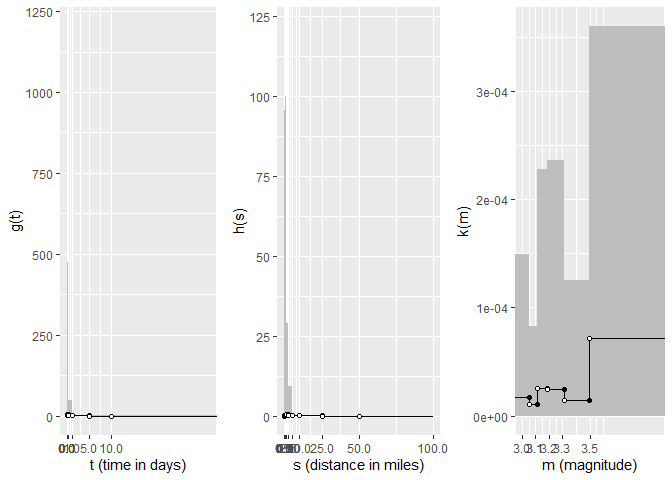
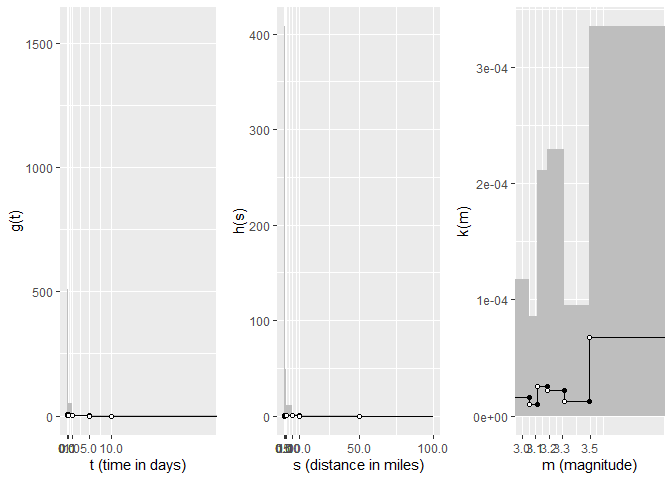
readme update

diff --git a/README.md b/README.md
@@ -67,7 +67,7 @@ out = nph(dates = quake$date, ref_date = "2010-01-01",
           lat = quake$lat,
           lon = quake$lon,
           time_breaks = t1,
-          space_breaks = s4,
+          space_breaks = s2,
           space_quantile = FALSE,
           time_quantile = FALSE,
           mark_quantile = TRUE,
@@ -81,9 +81,9 @@ diagonal of the resulting probability matrix.
 
 ``` r
 out$br
-#> [1] 0.4709871
+#> [1] 0.470988
 out$perc_diag
-#> [1] 0.9999988
+#> [1] 0.999999
 ```
 
 We can then inspect histogram estimators of the triggering functions.
@@ -91,8 +91,9 @@ The triggering plots include standard error estimates, which can be
 separately calculated using `se_bars(model)`.
 
 ``` r
-trig_plots(model = out, g_max = 32,
-           k_max = 4, k_min = 3)
+trig_plots(model = out, 
+           g_xlim = c(0,32),
+           k_xlim = c(3,4))
 ```
 
 <img src="man/figures/README-unnamed-chunk-4-1.png" width="100%" />
@@ -110,11 +111,11 @@ ci = cond_int(model = out)
 head(ci)
 #>       times         lat       lon    marks  cond_int       Date
 #> 1  8.966238 0.698142489 0.6944789 3.756671 0.4756862 2010-01-09
-#> 2 10.223218 0.686690810 0.6834387 3.569237 0.4709875 2010-01-11
-#> 3 12.579884 0.674706658 0.7150710 3.038466 0.4709879 2010-01-13
-#> 4 19.361111 0.629251374 0.9108068 3.672588 0.4709871 2010-01-20
-#> 5 23.427431 0.002338193 0.4389249 3.047991 0.4709871 2010-01-24
-#> 6 29.829606 0.120843447 0.3801922 3.042964 0.4709871 2010-01-30
+#> 2 10.223218 0.686690810 0.6834387 3.569237 0.4709881 2010-01-11
+#> 3 12.579884 0.674706658 0.7150710 3.038466 0.4709883 2010-01-13
+#> 4 19.361111 0.629251374 0.9108068 3.672588 0.4709880 2010-01-20
+#> 5 23.427431 0.002338193 0.4389249 3.047991 0.4709880 2010-01-24
+#> 6 29.829606 0.120843447 0.3801922 3.042964 0.4709880 2010-01-30
 ```
 
 We can perfrom super-thinning as a residual method, thinning events in
@@ -128,12 +129,12 @@ st = super_thin(K = "median_ci", model = out,
                 method = "superthin")
 head(st)
 #>       times         lat       lon    marks  cond_int       Date         p keep
-#> 1  8.966238 0.698142489 0.6944789 3.756671 0.4756862 2010-01-09 0.9901215    1
-#> 2 10.223218 0.686690810 0.6834387 3.569237 0.4709875 2010-01-11 0.9999992    1
-#> 3 12.579884 0.674706658 0.7150710 3.038466 0.4709879 2010-01-13 0.9999984    1
-#> 4 19.361111 0.629251374 0.9108068 3.672588 0.4709871 2010-01-20 1.0000000    1
-#> 5 23.427431 0.002338193 0.4389249 3.047991 0.4709871 2010-01-24 1.0000000    1
-#> 6 29.829606 0.120843447 0.3801922 3.042964 0.4709871 2010-01-30 1.0000000    1
+#> 1  8.966238 0.698142489 0.6944789 3.756671 0.4756862 2010-01-09 0.9901232    1
+#> 2 10.223218 0.686690810 0.6834387 3.569237 0.4709881 2010-01-11 0.9999997    1
+#> 3 12.579884 0.674706658 0.7150710 3.038466 0.4709883 2010-01-13 0.9999993    1
+#> 4 19.361111 0.629251374 0.9108068 3.672588 0.4709880 2010-01-20 1.0000000    1
+#> 5 23.427431 0.002338193 0.4389249 3.047991 0.4709880 2010-01-24 1.0000000    1
+#> 6 29.829606 0.120843447 0.3801922 3.042964 0.4709880 2010-01-30 1.0000000    1
 #>     type
 #> 1 retain
 #> 2 retain
